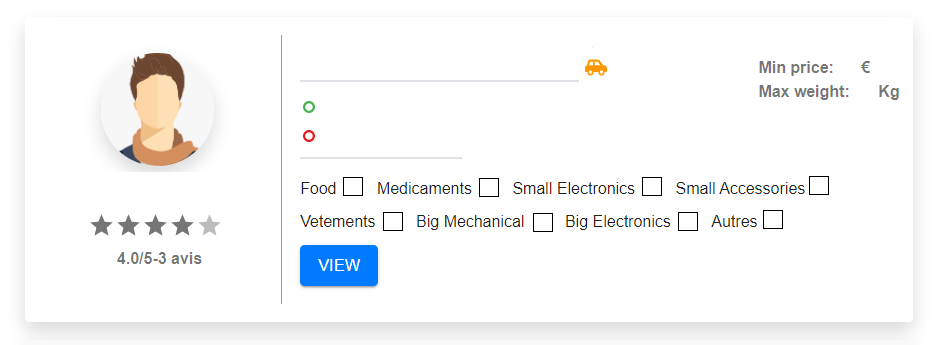
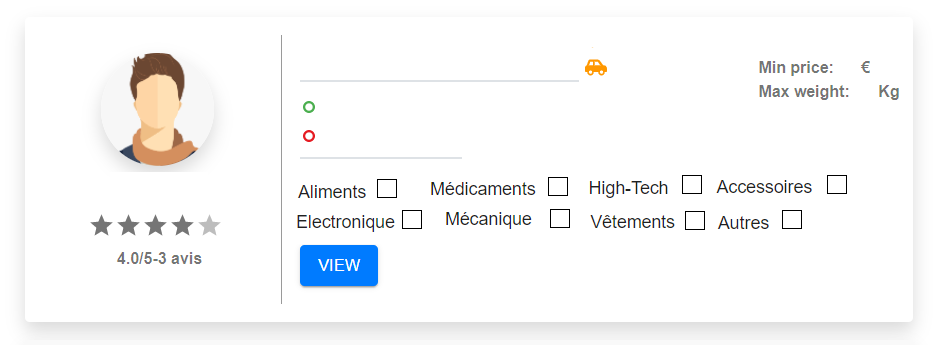
fix template image

Changed region(s): [[0.3082, 0.5217, 0.8937, 0.5797], [0.3082, 0.6087, 0.8321, 0.6667], [0.8629, 0.4928, 0.8937, 0.5217]]

diff --git a/records/views.py b/records/views.py
@@ -45,7 +45,7 @@ def Create_imagefrom_ad(Ads):
         myFontbdLink = ImageFont.truetype('records/arialbd.ttf', 30)
 
         # Add Text to an image
-        I1.text((410, 270), Ads["id"], font=myFontbdLink, fill =(0, 0, 0))
+        I1.text((110, 285), Ads["id"], font=myFontbdLink, fill =(0, 0, 0))
         I1.text((300, 60), Ads["date"], font=myFontbd, fill =(0, 0, 0))
         I1.text((838, 57), Ads["min_price"], font=myFontbd, fill =(0, 0, 0))
         I1.text((850, 80), Ads["max_weight"], font=myFontbd, fill =(0, 0, 0))
@@ -54,15 +54,15 @@ def Create_imagefrom_ad(Ads):
         I1.text((120, 174),Ads["username"], font=myFont, fill =(0, 0, 0))
 
 
-        I1.text((347, 175), VX(Ads,"f") , font=myFontbd, fill = RG(Ads,"f") )
-        I1.text((483, 175), VX(Ads,"M"), font=myFontbd, fill =  RG(Ads,"M") )
-        I1.text((646, 175), VX(Ads,"SE"), font=myFontbd, fill = RG(Ads,"SE") )
-        I1.text((815, 175), VX(Ads,"SA"), font=myFontbd, fill = RG(Ads,"SA") )
+        I1.text((382, 178), VX(Ads,"f") , font=myFontbd, fill = RG(Ads,"f") )
+        I1.text((552, 176), VX(Ads,"M"), font=myFontbd, fill =  RG(Ads,"M") )
+        I1.text((686, 174), VX(Ads,"SE"), font=myFontbd, fill = RG(Ads,"SE") )
+        I1.text((832, 174), VX(Ads,"SA"), font=myFontbd, fill = RG(Ads,"SA") )
 
-        I1.text((386, 209), VX(Ads,"V"), font=myFontbd, fill = RG(Ads,"V") )
-        I1.text((539, 209), VX(Ads,"BM"), font=myFontbd, fill = RG(Ads,"BM") )
-        I1.text((684, 209), VX(Ads,"BE"), font=myFontbd, fill = RG(Ads,"BE") )
-        I1.text((769, 209), VX(Ads,"Autres"), font=myFontbd, fill = RG(Ads,"Autres") )
+        I1.text((689, 210), VX(Ads,"V"), font=myFontbd, fill = RG(Ads,"V") )
+        I1.text((554, 208), VX(Ads,"BM"), font=myFontbd, fill = RG(Ads,"BM") )
+        I1.text((406, 209), VX(Ads,"BE"), font=myFontbd, fill = RG(Ads,"BE") )
+        I1.text((786, 209), VX(Ads,"Autres"), font=myFontbd, fill = RG(Ads,"Autres") )
 
 
 
@@ -83,7 +83,7 @@ def Create_imagefrom_ad(Ads):
         myFontbdLink = ImageFont.truetype('records/arialbd.ttf', 25)
 
         # Add Text to an image
-        I1.text( ( 242 , 315 ), Ads["id"], font=myFontbdLink, fill =(0, 0, 0))
+        I1.text( ( 110 , 315 ), Ads["id"], font=myFontbdLink, fill =(0, 0, 0))
 
         # Add Text to an image
         I1.text((240, 40), Ads["date"], font=myFontbd, fill =(0, 0, 0))
